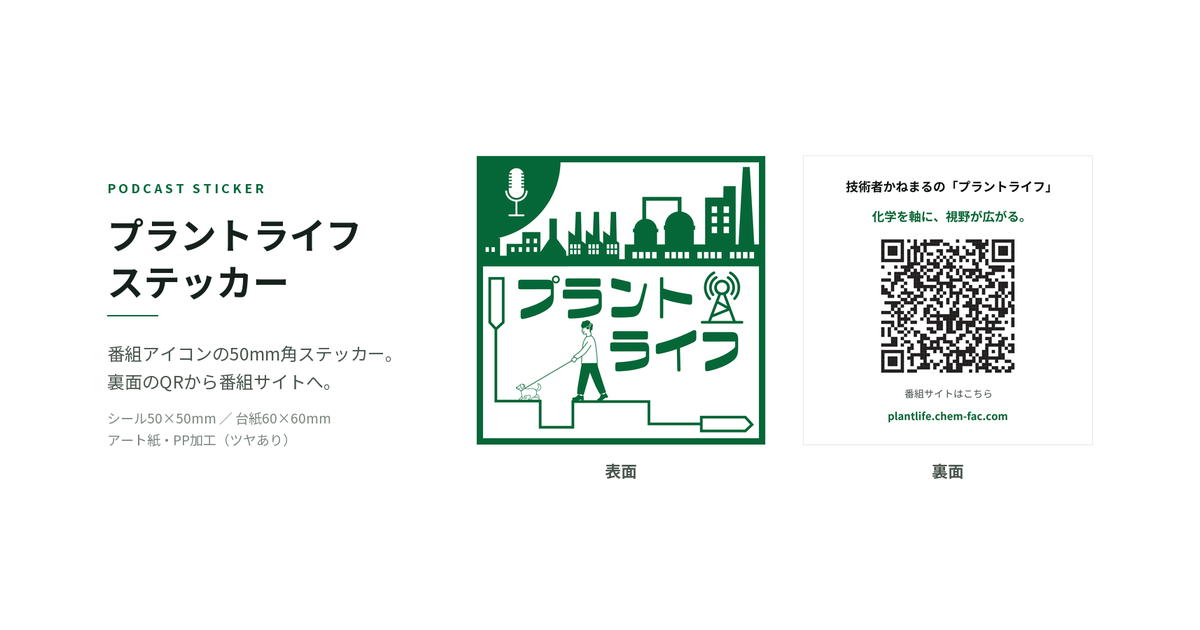
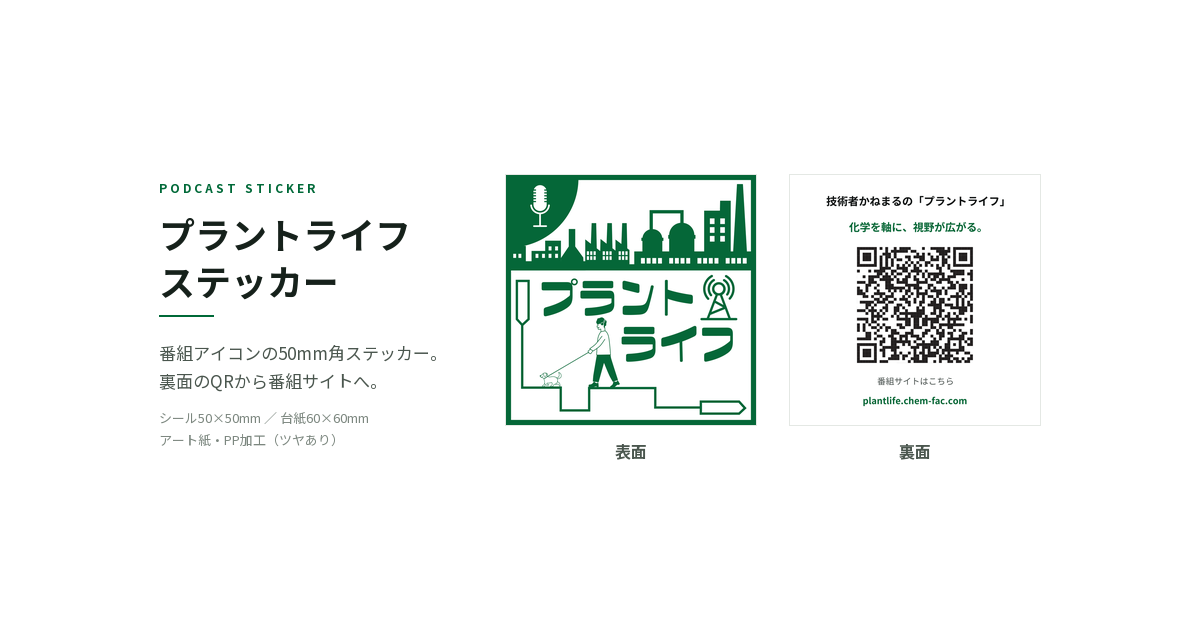
既定OGPとグッズOGPを、noteのカードで文字や絵が欠けないように作り直す
noteのリンクカードは画像の左右を約11%ずつ切る。既定OGPは「プ」とアンテナが、グッズOGPは
「PODCAST STICKER」と「プラントライフ ステッカー」の頭が欠けていたので、文字と主な絵を横の中央74%前後に収めた
（既定は工場の帯を全幅のまま、上のロゴ・文言・アンテナだけを縮めた）。
og:image・twitter:image の ?v= を新しい画像の中身のハッシュ（md5先頭8桁）に更新した。

diff --git a/index.html b/index.html
@@ -12,7 +12,7 @@
   <meta property="og:title" content="技術者かねまるの「プラントライフ」">
   <meta property="og:description" content="化学を軸に視野が広がるPodcast">
   <meta property="og:url" content="https://plantlife.chem-fac.com/">
-  <meta property="og:image" content="https://plantlife.chem-fac.com/images/ogp-default.png?v=20261010b">
+  <meta property="og:image" content="https://plantlife.chem-fac.com/images/ogp-default.png?v=1289e342">
   <meta property="og:image:width" content="1731">
   <meta property="og:image:height" content="909">
   <meta property="og:image:alt" content="技術者かねまるの「プラントライフ」。化学を軸に、視野が広がる。">
@@ -21,7 +21,7 @@
   <meta name="twitter:card" content="summary_large_image">
   <meta name="twitter:title" content="技術者かねまるの「プラントライフ」">
   <meta name="twitter:description" content="化学を軸に視野が広がるPodcast">
-  <meta name="twitter:image" content="https://plantlife.chem-fac.com/images/ogp-default.png?v=20261010b">
+  <meta name="twitter:image" content="https://plantlife.chem-fac.com/images/ogp-default.png?v=1289e342">
   <meta name="twitter:image:alt" content="技術者かねまるの「プラントライフ」。化学を軸に、視野が広がる。">
   <link rel="alternate" type="application/rss+xml" title="技術者かねまるの「プラントライフ」" href="https://rss.listen.style/p/14rlng1w/rss">
 

diff --git a/episodes/index.html b/episodes/index.html
@@ -11,11 +11,11 @@
     <meta property="og:title" content="全エピソード一覧 | プラントライフ">
     <meta property="og:description" content="化学・プラント技術の解説をキーワード検索・テーマ絞り込みで探せます。">
     <meta property="og:url" content="https://plantlife.chem-fac.com/episodes/">
-    <meta property="og:image" content="https://plantlife.chem-fac.com/images/ogp-default.png">
+    <meta property="og:image" content="https://plantlife.chem-fac.com/images/ogp-default.png?v=1289e342">
     <meta property="og:type" content="website">
     <meta property="og:locale" content="ja_JP">
     <meta name="twitter:card" content="summary_large_image">
-    <meta name="twitter:image" content="https://plantlife.chem-fac.com/images/ogp-default.png">
+    <meta name="twitter:image" content="https://plantlife.chem-fac.com/images/ogp-default.png?v=1289e342">
     <link rel="alternate" type="application/rss+xml" title="技術者かねまるの「プラントライフ」" href="https://rss.listen.style/p/14rlng1w/rss">
     <link rel="preconnect" href="https://fonts.googleapis.com">
     <link rel="preconnect" href="https://fonts.gstatic.com" crossorigin>

diff --git a/start/index.html b/start/index.html
@@ -12,11 +12,11 @@
     <meta property="og:title" content="はじめての方へ | プラントライフ">
     <meta property="og:description" content="100を超えるエピソードから、あなたに合った「まず聴く3本」をタイプ別にご案内します。">
     <meta property="og:url" content="https://plantlife.chem-fac.com/start/">
-    <meta property="og:image" content="https://plantlife.chem-fac.com/images/ogp-default.png">
+    <meta property="og:image" content="https://plantlife.chem-fac.com/images/ogp-default.png?v=1289e342">
     <meta property="og:type" content="website">
     <meta property="og:locale" content="ja_JP">
     <meta name="twitter:card" content="summary_large_image">
-    <meta name="twitter:image" content="https://plantlife.chem-fac.com/images/ogp-default.png">
+    <meta name="twitter:image" content="https://plantlife.chem-fac.com/images/ogp-default.png?v=1289e342">
     <link rel="alternate" type="application/rss+xml" title="技術者かねまるの「プラントライフ」"
         href="https://rss.listen.style/p/14rlng1w/rss">
     <link rel="preconnect" href="https://fonts.googleapis.com">

diff --git a/goods/index.html b/goods/index.html
@@ -12,11 +12,11 @@
     <meta property="og:title" content="グッズ | プラントライフ">
     <meta property="og:description" content="番組アイコンの50mm角ステッカーを作りました。イベント会場で配布しています。">
     <meta property="og:url" content="https://plantlife.chem-fac.com/goods/">
-    <meta property="og:image" content="https://plantlife.chem-fac.com/images/ogp-goods.png">
+    <meta property="og:image" content="https://plantlife.chem-fac.com/images/ogp-goods.png?v=46ac06d5">
     <meta property="og:type" content="website">
     <meta property="og:locale" content="ja_JP">
     <meta name="twitter:card" content="summary_large_image">
-    <meta name="twitter:image" content="https://plantlife.chem-fac.com/images/ogp-goods.png">
+    <meta name="twitter:image" content="https://plantlife.chem-fac.com/images/ogp-goods.png?v=46ac06d5">
     <link rel="alternate" type="application/rss+xml" title="技術者かねまるの「プラントライフ」"
         href="https://rss.listen.style/p/14rlng1w/rss">
     <link rel="preconnect" href="https://fonts.googleapis.com">

diff --git a/news/20260711-site-renewal/index.html b/news/20260711-site-renewal/index.html
@@ -14,10 +14,10 @@
     <meta property="og:description"
         content="各エピソードのページでそのまま再生できるようになり、「はじめての方へ」やテーマから探す導線を追加しました。">
     <meta property="og:url" content="https://plantlife.chem-fac.com/news/20260711-site-renewal/">
-    <meta property="og:image" content="https://plantlife.chem-fac.com/images/ogp-default.png">
+    <meta property="og:image" content="https://plantlife.chem-fac.com/images/ogp-default.png?v=1289e342">
     <meta property="og:locale" content="ja_JP">
     <meta name="twitter:card" content="summary_large_image">
-    <meta name="twitter:image" content="https://plantlife.chem-fac.com/images/ogp-default.png">
+    <meta name="twitter:image" content="https://plantlife.chem-fac.com/images/ogp-default.png?v=1289e342">
     <link rel="alternate" type="application/rss+xml" title="技術者かねまるの「プラントライフ」"
         href="https://rss.listen.style/p/14rlng1w/rss">
     <link rel="preconnect" href="https://fonts.googleapis.com">

diff --git a/news/20261004-elements-nobel/index.html b/news/20261004-elements-nobel/index.html
@@ -14,10 +14,10 @@
     <meta property="og:description"
         content="元素とノーベル化学賞からエピソードを探せる特集ページを2つ新設しました。">
     <meta property="og:url" content="https://plantlife.chem-fac.com/news/20261004-elements-nobel/">
-    <meta property="og:image" content="https://plantlife.chem-fac.com/images/ogp-default.png">
+    <meta property="og:image" content="https://plantlife.chem-fac.com/images/ogp-default.png?v=1289e342">
     <meta property="og:locale" content="ja_JP">
     <meta name="twitter:card" content="summary_large_image">
-    <meta name="twitter:image" content="https://plantlife.chem-fac.com/images/ogp-default.png">
+    <meta name="twitter:image" content="https://plantlife.chem-fac.com/images/ogp-default.png?v=1289e342">
     <link rel="alternate" type="application/rss+xml" title="技術者かねまるの「プラントライフ」"
         href="https://rss.listen.style/p/14rlng1w/rss">
     <link rel="preconnect" href="https://fonts.googleapis.com">
